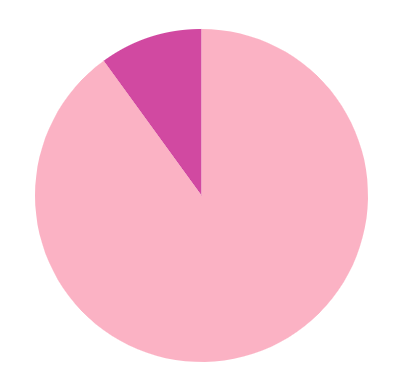
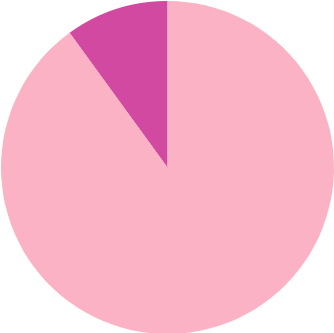
image cropping + insertion

diff --git a/WRAMP Project/button_imp/button_script.js b/WRAMP Project/button_imp/button_script.js
@@ -9,102 +9,103 @@ function pageChanger(){
     switch(buttonNum){
         case 2:
             document.getElementById("questionHeader").innerHTML = "Question 2/21";
-            document.getElementById("imgClickAndChange").src = "C:\Users\marit\OneDrive\Documents\GitHub\WRAMP-code\images\pie\pie-10.png";
+            document.getElementById("imgClickAndChange").src = "https://github.com/dianamoulton18/WRAMP-code/blob/master/images/pie/pie-05.png?raw=true";
             sessionStorage.setItem("buttonClicks", "3")
             break;
         case 3:
             document.getElementById("questionHeader").innerHTML = "Question 3/21";
-            document.getElementById("imgClickAndChange").src = "C:\Users\marit\OneDrive\Documents\GitHub\WRAMP-code\images\pie\pie-15.png";
+            document.getElementById("imgClickAndChange").src = "https://github.com/dianamoulton18/WRAMP-code/blob/master/images/pie/pie-10.png?raw=true";
             sessionStorage.setItem("buttonClicks", "4")
             break;
         case 4:
             document.getElementById("questionHeader").innerHTML = "Question 4/21";
-            document.getElementById("imgClickAndChange").src = "C:\Users\marit\OneDrive\Documents\GitHub\WRAMP-code\images\pie\pie-20.png";
+            document.getElementById("imgClickAndChange").src = "https://github.com/dianamoulton18/WRAMP-code/blob/master/images/pie/pie-15.png?raw=true";
             sessionStorage.setItem("buttonClicks", "5")
             break;
         case 5:
             document.getElementById("questionHeader").innerHTML = "Question 5/21";
-            document.getElementById("imgClickAndChange").src = "data5";
+            document.getElementById("imgClickAndChange").src = "https://github.com/dianamoulton18/WRAMP-code/blob/master/images/pie/pie-20.png?raw=true";
             sessionStorage.setItem("buttonClicks", "6")
             break;
         case 6:
             document.getElementById("questionHeader").innerHTML = "Question 6/21";
-            //document.getElementById("imgClickAndChange").src = "data6";
+            document.getElementById("imgClickAndChange").src = "https://github.com/dianamoulton18/WRAMP-code/blob/master/images/pie/pie-25.png?raw=true";
             sessionStorage.setItem("buttonClicks", "7")
             break;
         case 7:
             document.getElementById("questionHeader").innerHTML = "Question 7/21";
-            //document.getElementById("imgClickAndChange").src = "data7";
+            document.getElementById("imgClickAndChange").src = "https://github.com/dianamoulton18/WRAMP-code/blob/master/images/pie/pie-30.png?raw=true";
             sessionStorage.setItem("buttonClicks", "8")
             break;
         case 8:
             document.getElementById("questionHeader").innerHTML = "Question 8/21";
-            //document.getElementById("imgClickAndChange").src = "data8";
+            document.getElementById("imgClickAndChange").src = "https://github.com/dianamoulton18/WRAMP-code/blob/master/images/pie/pie-35.png?raw=true";
             sessionStorage.setItem("buttonClicks", "9")
             break;
         case 9:
-            //document.getElementById("imgClickAndChange").src = "data9";
+            document.getElementById("questionHeader").innerHTML = "Question 9/21";
+            document.getElementById("imgClickAndChange").src = "https://github.com/dianamoulton18/WRAMP-code/blob/master/images/pie/pie-40.png?raw=true";
             sessionStorage.setItem("buttonClicks", "10")
             break;
         case 10:
             document.getElementById("questionHeader").innerHTML = "Question 10/21";
-            //document.getElementById("imgClickAndChange").src = "data10";
+            document.getElementById("imgClickAndChange").src = "https://github.com/dianamoulton18/WRAMP-code/blob/master/images/pie/pie-45.png?raw=true";
             sessionStorage.setItem("buttonClicks", "11")
             break;
         case 11:
             document.getElementById("questionHeader").innerHTML = "Question 11/21";
-            //document.getElementById("imgClickAndChange").src = "data11";
+            document.getElementById("imgClickAndChange").src = "https://github.com/dianamoulton18/WRAMP-code/blob/master/images/pie/pie-50.png?raw=true";
             sessionStorage.setItem("buttonClicks", "12")
             break;
         case 12:
             document.getElementById("questionHeader").innerHTML = "Question 12/21";
-            //document.getElementById("imgClickAndChange").src = "data12";
+            document.getElementById("imgClickAndChange").src = "https://github.com/dianamoulton18/WRAMP-code/blob/master/images/pie/pie-55.png?raw=true";
             sessionStorage.setItem("buttonClicks", "13")
-            break;            document.getElementById("questionHeader").innerHTML = "Question 9/21";
+            break;            
 
         case 13:
             document.getElementById("questionHeader").innerHTML = "Question 13/21";
-            //document.getElementById("imgClickAndChange").src = "data13";
+            document.getElementById("imgClickAndChange").src = "https://github.com/dianamoulton18/WRAMP-code/blob/master/images/pie/pie-60.png?raw=true";
             sessionStorage.setItem("buttonClicks", "14")
             break;
         case 14:
             document.getElementById("questionHeader").innerHTML = "Question 14/21";
-            //document.getElementById("imgClickAndChange").src = "data14";
+            document.getElementById("imgClickAndChange").src = "https://github.com/dianamoulton18/WRAMP-code/blob/master/images/pie/pie-65.png?raw=true";
             sessionStorage.setItem("buttonClicks", "15")
             break;
         case 15:
             document.getElementById("questionHeader").innerHTML = "Question 15/21";
-            //document.getElementById("imgClickAndChange").src = "data15";
+            document.getElementById("imgClickAndChange").src = "https://github.com/dianamoulton18/WRAMP-code/blob/master/images/pie/pie-70.png?raw=true";
             sessionStorage.setItem("buttonClicks", "16")
             break;
         case 16:
             document.getElementById("questionHeader").innerHTML = "Question 16/21";
-            //document.getElementById("imgClickAndChange").src = "data16";
+            document.getElementById("imgClickAndChange").src = "https://github.com/dianamoulton18/WRAMP-code/blob/master/images/pie/pie-75.png?raw=true";
             sessionStorage.setItem("buttonClicks", "17")
             break;
         case 17:
             document.getElementById("questionHeader").innerHTML = "Question 17/21";
-            //document.getElementById("imgClickAndChange").src = "data17";
+            document.getElementById("imgClickAndChange").src = "https://github.com/dianamoulton18/WRAMP-code/blob/master/images/pie/pie-80.png?raw=true";
             sessionStorage.setItem("buttonClicks", "18")
             break;
         case 18:
             document.getElementById("questionHeader").innerHTML = "Question 18/21";
-            //document.getElementById("imgClickAndChange").src = "data18";
+            document.getElementById("imgClickAndChange").src = "https://github.com/dianamoulton18/WRAMP-code/blob/master/images/pie/pie-85.png?raw=true";
             sessionStorage.setItem("buttonClicks", "19")
             break;
         case 19:
             document.getElementById("questionHeader").innerHTML = "Question 19/21";
-            //document.getElementById("imgClickAndChange").src = "data19";
+            document.getElementById("imgClickAndChange").src = "https://github.com/dianamoulton18/WRAMP-code/blob/master/images/pie/pie-90.png?raw=true";
             sessionStorage.setItem("buttonClicks", "20")
             break;
         case 20:
             document.getElementById("questionHeader").innerHTML = "Question 20/21";
-            //document.getElementById("imgClickAndChange").src = "data20";
+            document.getElementById("imgClickAndChange").src = "https://github.com/dianamoulton18/WRAMP-code/blob/master/images/pie/pie-95.png?raw=true";
             sessionStorage.setItem("buttonClicks", "21")
             break;
         case 21:
             document.getElementById("questionHeader").innerHTML = "Question 21/21";
-            //document.getElementById("imgClickAndChange").src = "data21";
+            document.getElementById("imgClickAndChange").src = "https://github.com/dianamoulton18/WRAMP-code/blob/master/images/pie/pie-100.png?raw=true";
             sessionStorage.setItem("buttonClicks", "22")
             break;
         case 22:

diff --git a/WRAMP Project/index.html b/WRAMP Project/index.html
@@ -31,7 +31,8 @@
         </style>
     </head>
     <body class=“container”>
-        <h2>Unlikely? impossible? - How do you visualize it?</h2>
+        <div class="container">
+        <h2>Unlikely? impossible? - How do you describe it?</h2>
         <p>
             When uncertainty, odds, and (im)probabilities are communicated to us, we perceive and express them in different ways depending on our culture and the language that we use. The goal of this survey is to learn how people perceive and represent expressions of (im)probabilities in everyday life.
         </p>
@@ -39,16 +40,16 @@
             Before you proceed, please read the following consent form carefully:
         </h4>
         <p>
-            The goal of this research is to improve the communication of probabilistic information through data visualization.
-            Procedure: You will be presented a fictitious context, as well as the directives and questions to which you can answer either by interacting with the visualizations or by typing your answer in the provided area. Do NOT provide numerical answer, think of words and expressions instead!
-            What you will get out of it: You will expand your vocabulary related to probability and uncertainty, and learn about visual design and representations of uncertainty.
-            Duration: The experiment will take you at most 18 minutes.
-            Privacy: Your participation is anonymous and your responses cannot be used to identify you
-            Record keeping: Records of your participation will be held confidential so far as permitted by law. However, the study investigators and, under certain circumstances, the Worcester Polytechnic Institute Institutional Review Board (WPI IRB) will be able to inspect and have access to this data. Any publication or presentation of the data will not identify you.
-            Contact info: ltharrison@wpi.edu (PI), ntrakotondravony@wpi.edu
+            The goal of this research is to improve the communication of probabilistic information through data visualization.<br><br>
+            Procedure: You will be presented a fictitious context, as well as the directives and questions to which you can answer either by interacting with the visualizations or by typing your answer in the provided area. Do NOT provide numerical answer, think of words and expressions instead!<br><br>
+            What you will get out of it: You will expand your vocabulary related to probability and uncertainty, and learn about visual design and representations of uncertainty.<br><br>
+            Duration: The experiment will take you at most 18 minutes.<br><br>
+            Privacy: Your participation is anonymous and your responses cannot be used to identify you<br><br>
+            Record keeping: Records of your participation will be held confidential so far as permitted by law. However, the study investigators and, under certain circumstances, the Worcester Polytechnic Institute Institutional Review Board (WPI IRB) will be able to inspect and have access to this data. Any publication or presentation of the data will not identify you.<br><br>
+            Contact info: ltharrison@wpi.edu (PI), ntrakotondravony@wpi.edu<br><br>
             Your participation in this research is voluntary. Your refusal to participate will not result in any penalty to you or any loss of benefits to which you may otherwise be entitled. You may decide to stop participating in the research at any time without penalty or loss of other benefits. The project investigators retain the right to cancel or postpone the experimental procedures at any time they see fit.
             For more information about your rights as a research participant, or any concerns related to this study, please contact the IRB Chair (Professor Kent Rissmiller, Tel. 508-831-5019, Email: kjr@wpi.edu) and the Human Protection Administrator (Gabriel Johnson, Tel. 508-831-4989, Email: gjohnson@wpi.edu).
-            By clicking “Next”, you agree to participate. Before we begin, please enter your:
+            By clicking “Next”, you agree to participate. Before we begin, please enter your:<br>
         </p>
         <div class=“form-floating”>
             <textarea class=“form-control” placeholder=“Country” id=“floatingTextarea”></textarea>
@@ -61,6 +62,7 @@
         <div class=“form-floating”><textarea class=“form-control” placeholder=“Language” id=“floatingTextarea”></textarea>
             <label for=“floatingTextarea”>What is your prefered language?</label>
         </div><br>
-        <a href="intro.html" class="button">Introduction</a>
+        <a href="intro.html" class="button">Start</a>
+    </div>
     </body>
 </html>

diff --git a/WRAMP Project/experiment.html b/WRAMP Project/experiment.html
@@ -18,25 +18,11 @@
         sessionStorage.setItem("buttonClicks", "2"); </script> <!--Sets global variable for use later in code-->
 
     <style>
-    
-    .button1 {
-        background-color: red;
-        color: white;
-        padding: 5px 12px;
-        float: left;
-    }
-
-    .button1:hover {
-        text-decoration: none;
-        color: white;
-    }
 
     .button2 {
         background-color: red;
         color: white;
-        padding: 5px 12px;
-        float: right;
-    }
+    } 
     
     .button2:hover {
         text-decoration: none;
@@ -46,24 +32,22 @@
     </style>
 </head>
 <body class="container">
-    <h1>
-        Experiment
-    </h1>
+
     <h2 id="questionHeader">
         Question 1/21
     </h2>
     
-    <img id="imgClickAndChange" src="C:\Users\marit\OneDrive\Documents\GitHub\WRAMP-code\images\pie\pie-05.png" height="225" width="200" alt="data visualization"><br><br>
+    <p>Instruction</p>
+
+    <img src="https://github.com/dianamoulton18/WRAMP-code/blob/master/images/pie/pie-0.png?raw=true" height="335" width="335" alt="data visualization" id="imgClickAndChange"><br><br>
     <!--change to first dataviz image-->
 
     <form>
         Text Field</br>
         <input type="text" name="testfield">
         <script src = "button_imp\button_script.js"></script>
-        <button onclick="pageChanger()" type = "button" id="formButton">Submit</button>
+        <button onclick="pageChanger()" type = "button" id="formButton" class="button2">Submit</button>
     </form><br>
     
-    <a href="intro.html" class="button1">Previous Page</a>
-    <a href="thanks.html" class="button2">Finish</a>
 </body>
 </html>

diff --git a/WRAMP Project/intro.html b/WRAMP Project/intro.html
@@ -51,17 +51,16 @@
         "Lorem ipsum dolor sit amet, consectetur adipiscing elit, sed do eiusmod tempor incididunt ut labore et dolore magna aliqua. Ut enim ad minim veniam, quis nostrud exercitation ullamco laboris nisi ut aliquip ex ea commodo consequat. Duis aute irure dolor in reprehenderit in voluptate velit esse cillum dolore eu fugiat nulla pariatur. Excepteur sint occaecat cupidatat non proident, sunt in culpa qui officia deserunt mollit anim id est laborum."
     </div>
 
-    <div>
-        <a href="index.html" class="button1">Previous Page</a>
-        <a href="experiment.html" class="button2">Experiment</a> 
-    </div>
-
     <div style="display: inline-block">
         "Lorem ipsum dolor sit amet, consectetur adipiscing elit, sed do eiusmod tempor incididunt ut labore et dolore magna aliqua. Ut enim ad minim veniam, quis nostrud exercitation ullamco laboris nisi ut aliquip ex ea commodo consequat. Duis aute irure dolor in reprehenderit in voluptate velit esse cillum dolore eu fugiat nulla pariatur. Excepteur sint occaecat cupidatat non proident, sunt in culpa qui officia deserunt mollit anim id est laborum."
      </div>
      <div style="display: inline-block">
         Content in column B
      </div>
+
+     <div>
+        <a href="experiment.html" class="button2">Next</a> 
+    </div>
     
 </body>
 </html>

diff --git a/images/pie.html b/images/pie.html
@@ -30,12 +30,12 @@
             .attr("transform", "translate(" + width / 2 + "," + height / 2 + ")");
 
         // Create data
-        var data = { a: 9, b: 20 }
+        var data = { a: 100, b: 0 }
 
         // set the color scale
         var color = d3.scaleOrdinal()
             .domain(data)
-            .range(["#98abc5", "#8a89a6"])
+            .range(["#fa9fb5", "#c51b8a"])
 
         // Compute the position of each group on the pie:
         var pie = d3.pie()

diff --git a/WRAMP Project/thanks.html b/WRAMP Project/thanks.html
@@ -34,8 +34,8 @@
 
     <h1>Thanks</h1>
 
-    <p>lorem ipsum</p>
+    <p>Thank you for your participation</p>
 
-    <a href="experiment.html" class="button">Previous Page</a>
+    <p>Please collect your reward <a href="www.youtube.com">here</a></p>
 </body>
 </html>
